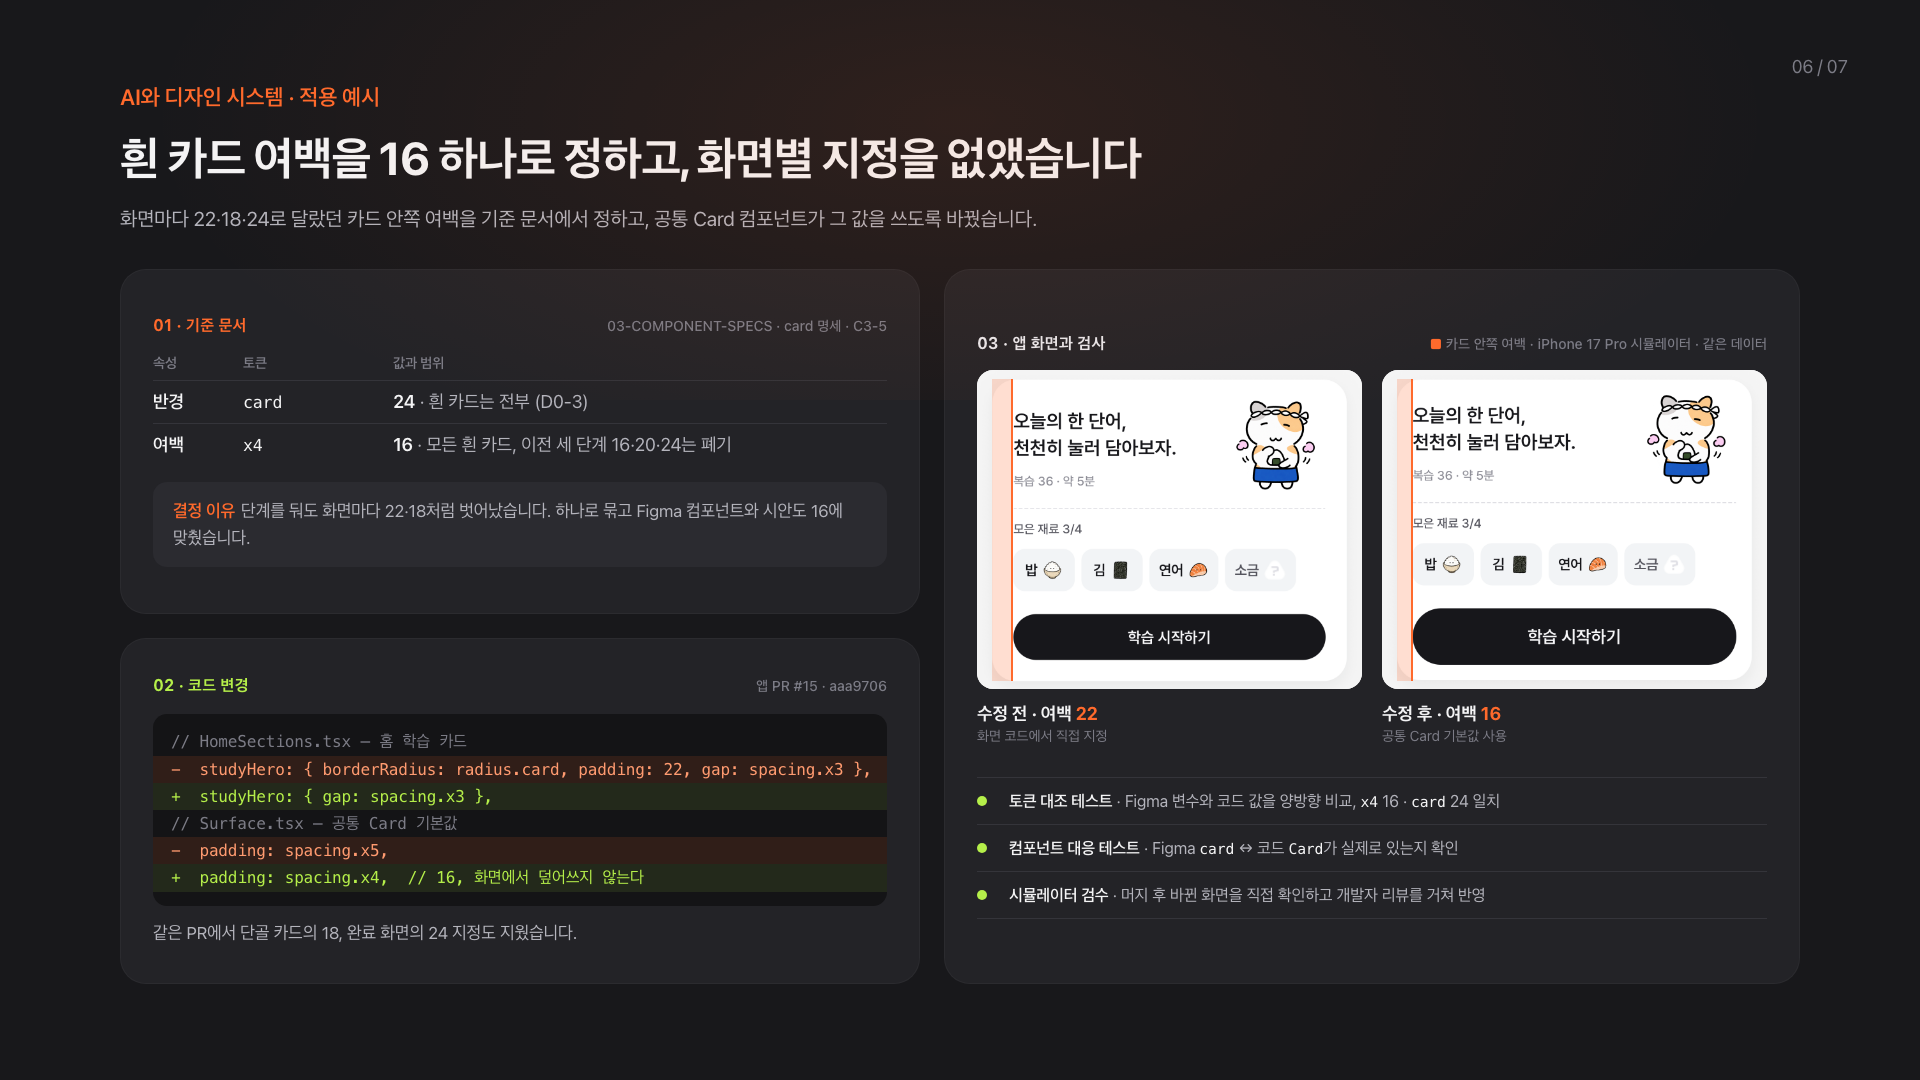
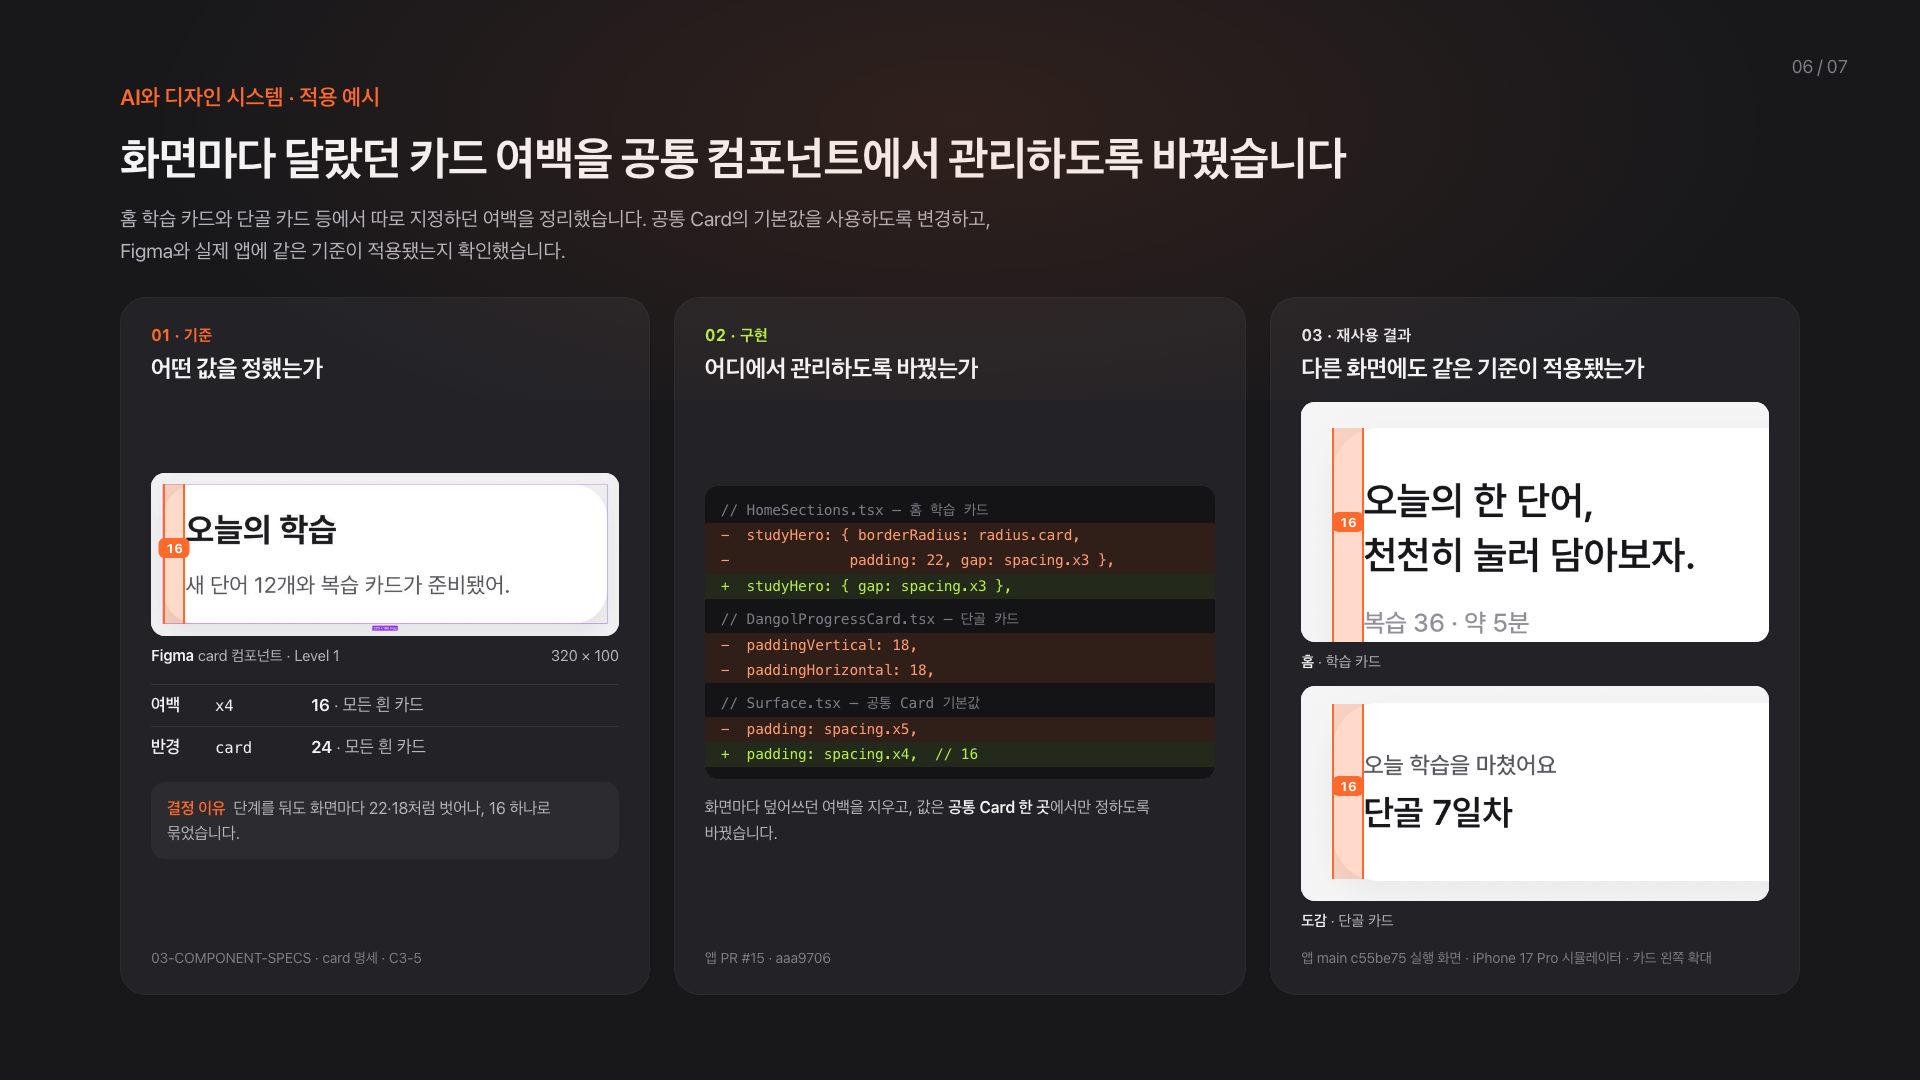
portfolio: 6장 재구성 — 기준(Figma card 16) · 구현(PR #15 diff) · 재사용 결과(홈 학습 카드·단골 카드), 같은 카드 전후 비교 대신 서로 다른 카드에 같은 기준
- 적용 화면은 앱 main c55be75 실행 캡처(iPhone 17 Pro), 카드 왼쪽 끝~콘텐츠 시작 확대 + 16 표시
- Figma 캡처는 라이브러리 card / Level 1 (106:2562) 460% 확대

diff --git a/portfolio/onikan-deck-2026-11.html b/portfolio/onikan-deck-2026-11.html
@@ -169,45 +169,38 @@
   .s4 .num .k { font-size: 17px; line-height: 1.45; color: var(--body); }
   .s4 .nums-note { margin-top: 16px; font-size: 15px; color: var(--mute); }
 
-  /* ───────── 6. 근거 예시: 카드 여백 (기준 문서 → 코드 diff → 앱 화면) ───────── */
+  /* ───────── 6. 적용 예시: 카드 여백 (기준 → 구현 → 재사용 결과) ───────── */
   .s4b { justify-content: flex-start; padding-top: 84px; }
-  .s4b .head { margin-bottom: 34px; }
+  .s4b .head { margin-bottom: 30px; }
   .s4b h1 { font-size: 46px; margin: 16px 0 14px; }
   .s4b .sub { font-size: 20px; }
-  .s4b .grid { display: grid; grid-template-columns: 800px 1fr; gap: 24px; flex: 1; min-height: 0; }
-  .s4b .left { display: flex; flex-direction: column; gap: 24px; }
-  .s4b .left .pane { flex: 1; display: flex; flex-direction: column; justify-content: center; }
-  .s4b .left .pane .k { margin-bottom: 18px; }
-  .s4b .pane { background: var(--panel); border-radius: 26px; padding: 28px 32px; border: 1px solid rgba(255,255,255,0.04); }
-  .s4b .pane .k { display: flex; justify-content: space-between; align-items: baseline; font-size: 16px; font-weight: 700; letter-spacing: 0.02em; margin-bottom: 16px; }
-  .s4b .pane .k .src { font-size: 14px; font-weight: 500; color: var(--mute); letter-spacing: 0; }
-  .s4b .spec { width: 100%; border-collapse: collapse; font-size: 18px; }
-  .s4b .spec th { text-align: left; font-weight: 600; color: var(--mute); font-size: 14px; padding: 0 0 8px; }
-  .s4b .spec td { padding: 10px 0; border-top: 1px solid var(--line); color: var(--body); vertical-align: top; }
-  .s4b .spec td:first-child { width: 90px; color: var(--ink); font-weight: 600; }
-  .s4b .spec td:nth-child(2) { width: 150px; }
+  .s4b .cols3 { display: grid; grid-template-columns: 1fr 1.08fr 1fr; gap: 24px; }
+  .s4b .body { flex: 1; display: flex; flex-direction: column; justify-content: center; }
+  .s4b .pane { background: var(--panel); border-radius: 26px; padding: 28px 30px 26px; border: 1px solid rgba(255,255,255,0.04); display: flex; flex-direction: column; }
+  .s4b .pane .k { font-size: 16px; font-weight: 700; letter-spacing: 0.02em; }
+  .s4b .pane .q { font-size: 24px; font-weight: 700; letter-spacing: -0.02em; margin: 8px 0 18px; }
+  .s4b .src { margin-top: auto; padding-top: 16px; font-size: 14px; line-height: 1.5; color: var(--mute); }
   .s4b code { font-family: "SF Mono", Menlo, monospace; font-size: 0.92em; color: var(--ink); }
-  .s4b .why { margin-top: 16px; padding: 16px 20px; border-radius: 14px; background: var(--panel-2); font-size: 17px; line-height: 1.55; color: var(--body); }
-  .s4b .why b { color: var(--orange); margin-right: 6px; }
-  .s4b .diff { font-family: "SF Mono", Menlo, monospace; font-size: 16px; line-height: 1.7; background: #141416; border-radius: 14px; padding: 14px 0; white-space: pre; overflow: hidden; }
-  .s4b .diff div { padding: 0 18px; }
+  .s4b .shot { position: relative; border-radius: 14px; overflow: hidden; background: #F2F2F3; }
+  .s4b .shot img { display: block; width: 100%; }
+  .s4b .shot .pad { position: absolute; background: rgba(255,106,44,0.25); border-left: 2px solid var(--orange); border-right: 2px solid var(--orange); }
+  .s4b .shot .tag16 { position: absolute; transform: translateX(-50%); background: var(--orange); color: #fff; font-size: 13px; font-weight: 700; padding: 2px 7px; border-radius: 6px; font-variant-numeric: tabular-nums; }
+  .s4b .cap { margin: 10px 0 0; font-size: 15px; color: var(--body); display: flex; justify-content: space-between; }
+  .s4b .cap b { color: var(--ink); }
+  .s4b .spec { margin-top: 18px; width: 100%; border-collapse: collapse; font-size: 17px; }
+  .s4b .spec td { padding: 10px 0; border-top: 1px solid var(--line); color: var(--body); }
+  .s4b .spec td:first-child { width: 64px; color: var(--ink); font-weight: 600; }
+  .s4b .spec td:nth-child(2) { width: 96px; }
+  .s4b .why { margin-top: 14px; padding: 14px 16px; border-radius: 14px; background: var(--panel-2); font-size: 16px; line-height: 1.55; color: var(--body); }
+  .s4b .why b { color: var(--orange); margin-right: 4px; }
+  .s4b .diff { font-family: "SF Mono", Menlo, monospace; font-size: 14.5px; line-height: 1.75; background: #141416; border-radius: 14px; padding: 12px 0; white-space: pre; overflow: hidden; }
+  .s4b .diff div { padding: 0 16px; }
   .s4b .diff .f { color: var(--mute); }
+  .s4b .diff .f + .f, .s4b .diff .m + .f, .s4b .diff .p + .f { margin-top: 8px; }
   .s4b .diff .m { background: rgba(255,106,44,0.12); color: #FF9B70; }
   .s4b .diff .p { background: rgba(181,239,74,0.10); color: var(--lime); }
-  .s4b .diff + p { margin-top: 14px; font-size: 17px; line-height: 1.55; color: var(--body); }
-  .s4b .right { display: flex; flex-direction: column; justify-content: center; }
-  .s4b .shots { display: grid; grid-template-columns: 1fr 1fr; gap: 20px; }
-  .s4b .shot { position: relative; border-radius: 16px; overflow: hidden; background: #F2F2F3; }
-  .s4b .shot img { display: block; width: 100%; }
-  .s4b .shot .pad { position: absolute; top: 3%; height: 94.5%; left: 3.98%; background: rgba(255,106,44,0.22); border-right: 2px solid var(--orange); }
-  .s4b .shot-cap { margin-top: 14px; margin-bottom: 24px; display: flex; flex-direction: column; gap: 2px; }
-  .s4b .shot-cap .t { font-size: 18px; font-weight: 700; }
-  .s4b .shot-cap .t span { color: var(--orange); }
-  .s4b .shot-cap .d { font-size: 14px; color: var(--mute); }
-  .s4b .checks { list-style: none; margin-top: 8px; border-top: 1px solid var(--line); }
-  .s4b .checks li { display: grid; grid-template-columns: 22px 1fr; gap: 10px; padding: 11px 0; border-bottom: 1px solid var(--line); font-size: 16px; line-height: 1.5; color: var(--body); }
-  .s4b .checks li i { width: 10px; height: 10px; border-radius: 50%; background: var(--lime); margin-top: 7px; display: block; }
-  .s4b .checks li b { color: var(--ink); }
+  .s4b .impl-note { margin-top: 16px; font-size: 16px; line-height: 1.6; color: var(--body); }
+  .s4b .reuse { display: flex; flex-direction: column; gap: 14px; }
 
   /* ───────── 5. AI 워크플로 도식 (onikan-ai-workflow.html과 같은 내용) ───────── */
   .s5 { justify-content: flex-start; padding-top: 84px; }
@@ -445,54 +438,72 @@
   <p class="nums-note">* 토큰 값은 검사 대상 범위에서 비교했습니다. Figma 컴포넌트 중 나머지 4개는 화면별 구현에 대응합니다.</p>
 </section>
 
-<!-- ═════════ 6. 근거 예시: 카드 여백 (2026-11-27) ═════════
-     근거: design-system/03-COMPONENT-SPECS-2026-11.md:193-197 · :333 (C3-5) · 00-DECISIONS:26 (D0-3)
-           앱 PR #15 커밋 aaa9706 (HomeSections.tsx · Surface.tsx)
-           figmaParity.test.ts:111-131 · componentMap.test.ts:35 · figma-tokens.json:64,84
-           캡처: assets/ds-evidence/ — 76193d4(여백 22) vs f5ae6e4(여백 16), iPhone 17 Pro 라이트 -->
+<!-- ═════════ 6. 적용 예시: 카드 여백 (2026-11-28 피드백 반영: 기준 · 구현 · 재사용 결과) ═════════
+     근거: Figma 라이브러리 card / Elevation=Level 1 (UiXc63pKkJr8WpkKqFVGBr 106:2562 — 글자 x 16 · y 16, 320×100 Hug)
+           design-system/03-COMPONENT-SPECS-2026-11.md:193-197 · :333 (C3-5) · 00-DECISIONS:26 (D0-3)
+           앱 PR #15 커밋 aaa9706 — HomeSections.tsx · DangolProgressCard.tsx · Surface.tsx
+           적용 화면: 앱 main c55be75 실행 캡처 (iPhone 17 Pro 시뮬레이터, 라이트, 2026-11-28) — assets/ds-evidence/reuse-*.png
+           주황 띠 = 카드 왼쪽 끝 ~ 콘텐츠 시작 (16pt = 원본 48px @3x, Figma 캡처는 460% 확대) -->
 <section class="slide s4b" id="s4b">
   <div class="page-no">06 / 07</div>
   <div class="head">
     <div class="label">AI와 디자인 시스템 · 적용 예시</div>
-    <h1>흰 카드 여백을 16 하나로 정하고, 화면별 지정을 없앴습니다</h1>
-    <p class="sub">화면마다 22·18·24로 달랐던 카드 안쪽 여백을 기준 문서에서 정하고, 공통 Card 컴포넌트가 그 값을 쓰도록 바꿨습니다.</p>
+    <h1>화면마다 달랐던 카드 여백을 공통 컴포넌트에서 관리하도록 바꿨습니다</h1>
+    <p class="sub">홈 학습 카드와 단골 카드 등에서 따로 지정하던 여백을 정리했습니다. 공통 Card의 기본값을 사용하도록 변경하고,<br>Figma와 실제 앱에 같은 기준이 적용됐는지 확인했습니다.</p>
   </div>
 
-  <div class="grid">
-    <div class="left">
-      <div class="pane">
-        <div class="k"><span style="color:var(--orange)">01 · 기준 문서</span><span class="src">03-COMPONENT-SPECS · card 명세 · C3-5</span></div>
-        <table class="spec">
-          <tr><th>속성</th><th>토큰</th><th>값과 범위</th></tr>
-          <tr><td>반경</td><td><code>card</code></td><td><b>24</b> · 흰 카드는 전부 (D0-3)</td></tr>
-          <tr><td>여백</td><td><code>x4</code></td><td><b>16</b> · 모든 흰 카드, 이전 세 단계 16·20·24는 폐기</td></tr>
-        </table>
-        <div class="why"><b>결정 이유</b>단계를 둬도 화면마다 22·18처럼 벗어났습니다. 하나로 묶고 Figma 컴포넌트와 시안도 16에 맞췄습니다.</div>
+  <div class="cols3">
+    <div class="pane">
+      <div class="k" style="color:var(--orange)">01 · 기준</div>
+      <div class="q">어떤 값을 정했는가</div>
+      <div class="body">
+      <div class="shot" style="background:#EDEDED">
+        <img src="assets/ds-evidence/figma-card-16.png" alt="Figma 라이브러리 card 컴포넌트 — 안쪽 여백 16">
+        <div class="pad" style="left:2.6%; width:4.74%; top:6.7%; height:86%"></div>
+        <div class="tag16" style="left:4.97%; top:40%">16</div>
       </div>
-      <div class="pane">
-        <div class="k"><span style="color:var(--lime)">02 · 코드 변경</span><span class="src">앱 PR #15 · aaa9706</span></div>
-        <div class="diff"><div class="f">// HomeSections.tsx — 홈 학습 카드</div><div class="m">-  studyHero: { borderRadius: radius.card, padding: 22, gap: spacing.x3 },</div><div class="p">+  studyHero: { gap: spacing.x3 },</div><div class="f">// Surface.tsx — 공통 Card 기본값</div><div class="m">-  padding: spacing.x5,</div><div class="p">+  padding: spacing.x4,  // 16, 화면에서 덮어쓰지 않는다</div></div>
-        <p>같은 PR에서 단골 카드의 18, 완료 화면의 24 지정도 지웠습니다.</p>
+      <div class="cap"><span><b>Figma</b> card 컴포넌트 · Level 1</span><span>320 × 100</span></div>
+      <table class="spec">
+        <tr><td>여백</td><td><code>x4</code></td><td><b>16</b> · 모든 흰 카드</td></tr>
+        <tr><td>반경</td><td><code>card</code></td><td><b>24</b> · 모든 흰 카드</td></tr>
+      </table>
+      <div class="why"><b>결정 이유</b> 단계를 둬도 화면마다 22·18처럼 벗어나, 16 하나로 묶었습니다.</div>
       </div>
+      <div class="src">03-COMPONENT-SPECS · card 명세 · C3-5</div>
     </div>
 
-    <div class="pane right">
-      <div class="k"><span style="color:var(--white)">03 · 앱 화면과 검사</span><span class="src"><span style="color:var(--orange)">■</span> 카드 안쪽 여백 · iPhone 17 Pro 시뮬레이터 · 같은 데이터</span></div>
-      <div class="shots">
+    <div class="pane">
+      <div class="k" style="color:var(--lime)">02 · 구현</div>
+      <div class="q">어디에서 관리하도록 바꿨는가</div>
+      <div class="body">
+      <div class="diff"><div class="f">// HomeSections.tsx — 홈 학습 카드</div><div class="m">-  studyHero: { borderRadius: radius.card,</div><div class="m">-              padding: 22, gap: spacing.x3 },</div><div class="p">+  studyHero: { gap: spacing.x3 },</div><div class="f">// DangolProgressCard.tsx — 단골 카드</div><div class="m">-  paddingVertical: 18,</div><div class="m">-  paddingHorizontal: 18,</div><div class="f">// Surface.tsx — 공통 Card 기본값</div><div class="m">-  padding: spacing.x5,</div><div class="p">+  padding: spacing.x4,  // 16</div></div>
+      <p class="impl-note">화면마다 덮어쓰던 여백을 지우고, 값은 <b>공통 Card 한 곳</b>에서만 정하도록 바꿨습니다.</p>
+      </div>
+      <div class="src">앱 PR #15 · aaa9706</div>
+    </div>
+
+    <div class="pane">
+      <div class="k" style="color:var(--white)">03 · 재사용 결과</div>
+      <div class="q">다른 화면에도 같은 기준이 적용됐는가</div>
+      <div class="reuse">
         <div>
-          <div class="shot"><img src="assets/ds-evidence/hero-card-before-22.png" alt="수정 전 홈 학습 카드 — 안쪽 여백 22"><div class="pad" style="width:5.47%"></div></div>
-          <div class="shot-cap"><div class="t">수정 전 · 여백 <span>22</span></div><div class="d">화면 코드에서 직접 지정</div></div>
+          <div class="shot">
+            <img src="assets/ds-evidence/reuse-home-card-edge.png" alt="홈 학습 카드 — 왼쪽 끝에서 콘텐츠까지 16">
+            <div class="pad" style="left:6.67%; width:6.67%; top:10.8%; height:89.2%"></div>
+            <div class="tag16" style="left:10%; top:46%">16</div>
+          </div>
+          <div class="cap"><span><b>홈</b> · 학습 카드</span></div>
         </div>
         <div>
-          <div class="shot"><img src="assets/ds-evidence/hero-card-after-16.png" alt="수정 후 홈 학습 카드 — 안쪽 여백 16"><div class="pad" style="width:3.98%"></div></div>
-          <div class="shot-cap"><div class="t">수정 후 · 여백 <span>16</span></div><div class="d">공통 Card 기본값 사용</div></div>
+          <div class="shot">
+            <img src="assets/ds-evidence/reuse-dangol-card-edge.png" alt="도감 단골 카드 — 왼쪽 끝에서 콘텐츠까지 16">
+            <div class="pad" style="left:6.67%; width:6.67%; top:8.2%; height:81.8%"></div>
+            <div class="tag16" style="left:10%; top:42%">16</div>
+          </div>
+          <div class="cap"><span><b>도감</b> · 단골 카드</span></div>
         </div>
       </div>
-      <ul class="checks">
-        <li><i></i><span><b>토큰 대조 테스트</b> · Figma 변수와 코드 값을 양방향 비교, <code>x4</code> 16 · <code>card</code> 24 일치</span></li>
-        <li><i></i><span><b>컴포넌트 대응 테스트</b> · Figma <code>card</code> ↔ 코드 <code>Card</code>가 실제로 있는지 확인</span></li>
-        <li><i></i><span><b>시뮬레이터 검수</b> · 머지 후 바뀐 화면을 직접 확인하고 개발자 리뷰를 거쳐 반영</span></li>
-      </ul>
+      <div class="src">앱 main c55be75 실행 화면 · iPhone 17 Pro 시뮬레이터 · 카드 왼쪽 확대</div>
     </div>
   </div>
 </section>
